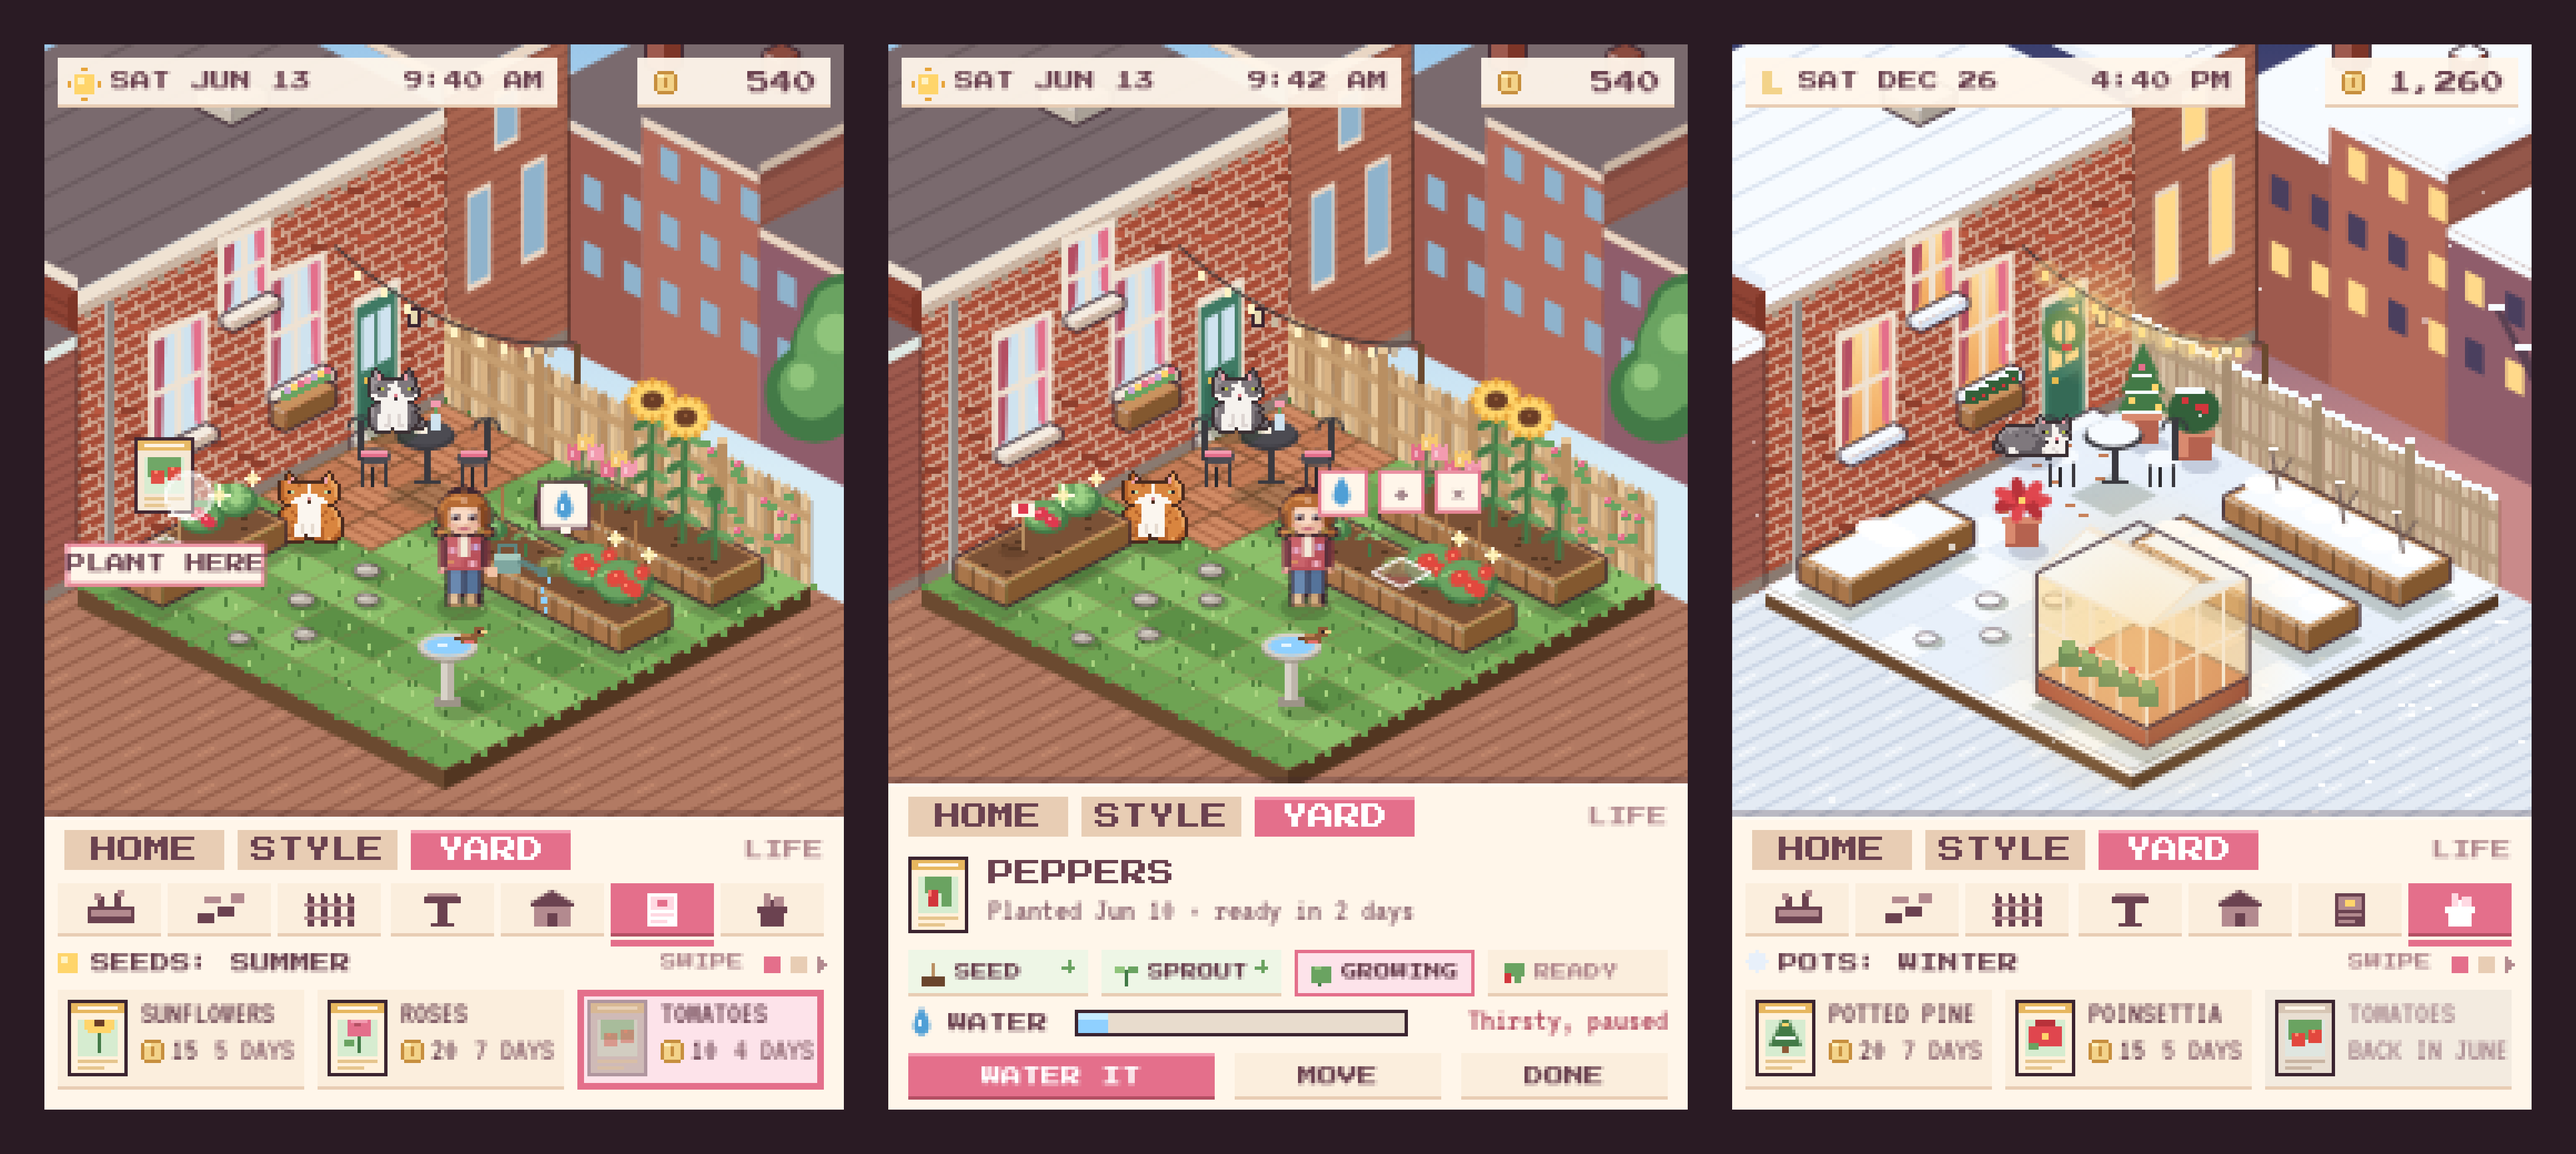
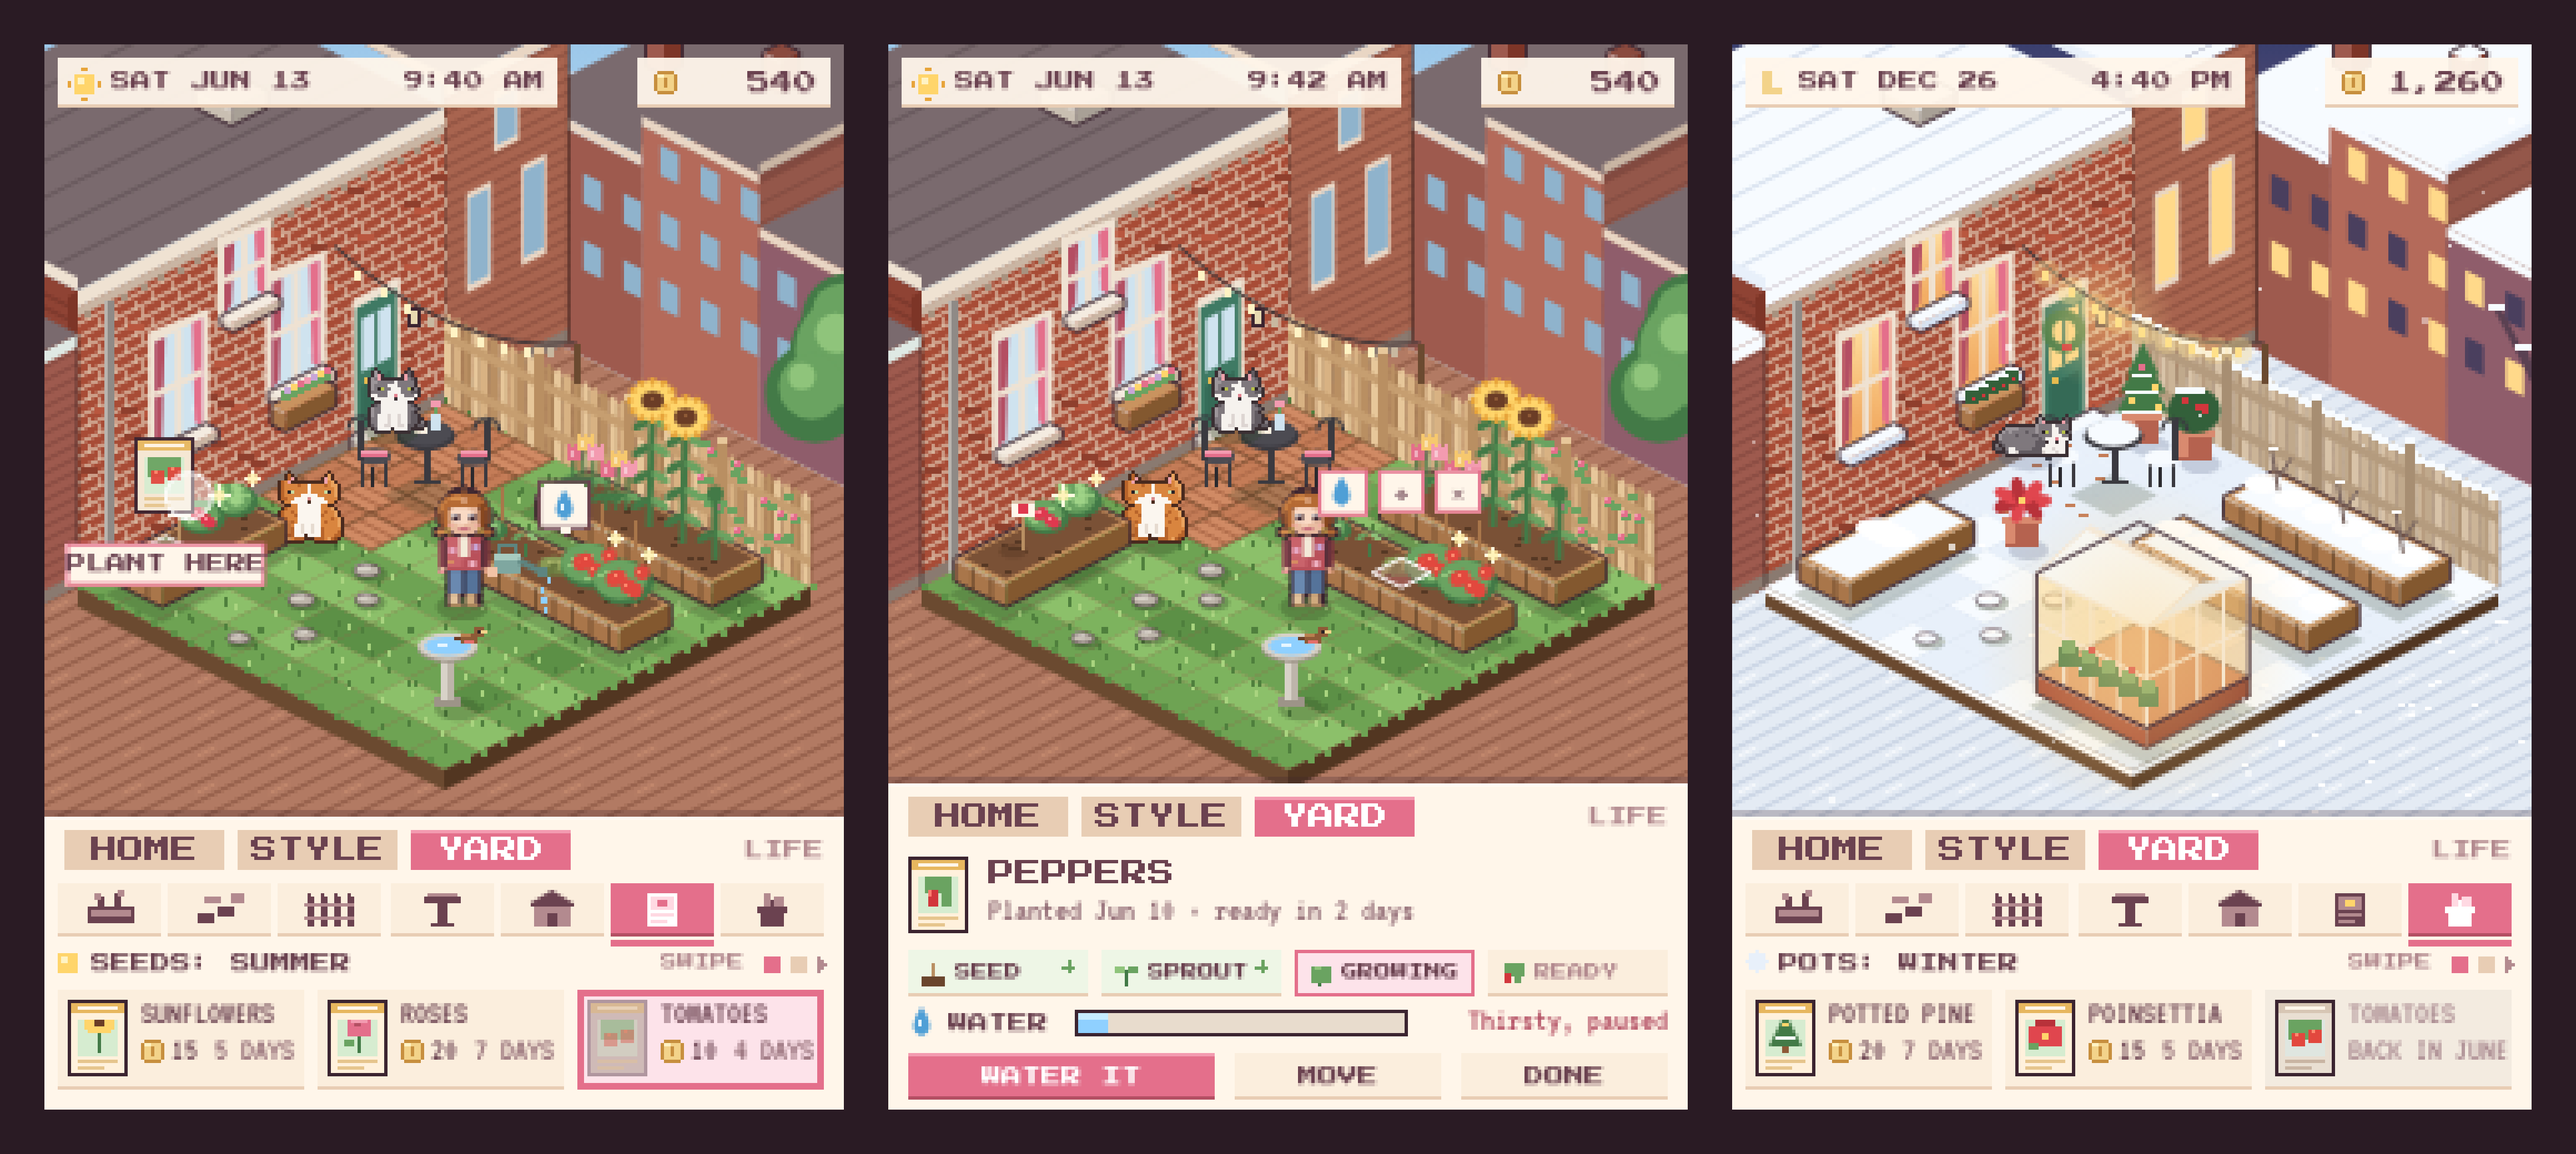
Sarah's Sim: yard mockup paves the alley behind the fence (no sky gap)
Claude-Session: https://claude.ai/code/session_019kG9BtZjtrUuyQHKgYVmkD

diff --git a/games/sarahs-sim/mockups/yard-v1.js b/games/sarahs-sim/mockups/yard-v1.js
@@ -69,7 +69,7 @@
     else { poly([D, C, [C[0], C[1] + 2], [D[0], D[1] + 2]], '#ffffff'); poly([B, C, [C[0], C[1] + 2], [B[0], B[1] + 2]], '#e8f0fa'); }
   }
   function surround() { // the brick alley and sidewalk around the yard, so the yard sits on solid ground
-    var pts = [iso(0, 0), iso(30, 0), iso(30, 30), iso(-30, 30), iso(-30, N), iso(0, N)];
+    var pts = [iso(0, -3.2), iso(30, -3.2), iso(30, 30), iso(-30, 30), iso(-30, N), iso(0, N)]; // the alley behind the fence too
     poly(pts, WIN ? '#e4ebf4' : '#b27a63');
     c.save(); c.beginPath(); c.moveTo(pts[0][0], pts[0][1]); for (var i = 1; i < pts.length; i++) c.lineTo(pts[i][0], pts[i][1]); c.closePath(); c.clip();
     var mortar = WIN ? 'rgba(170,185,210,.5)' : 'rgba(120,70,50,.55)';
